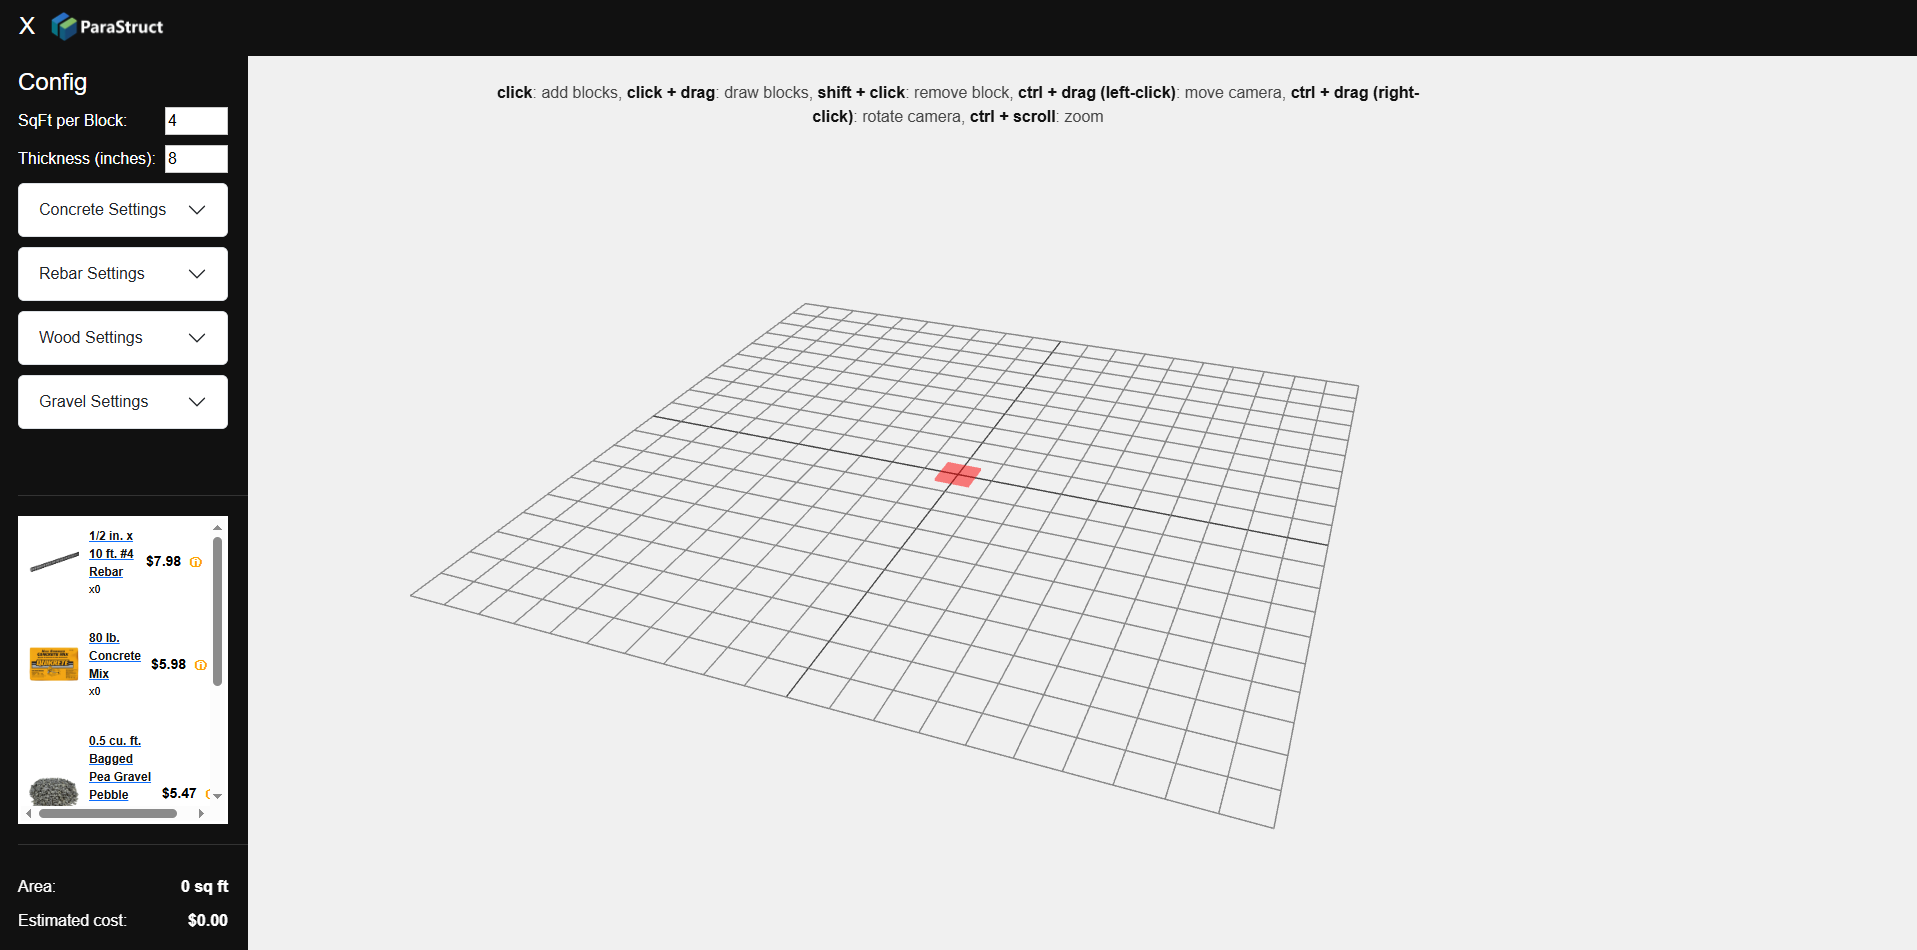
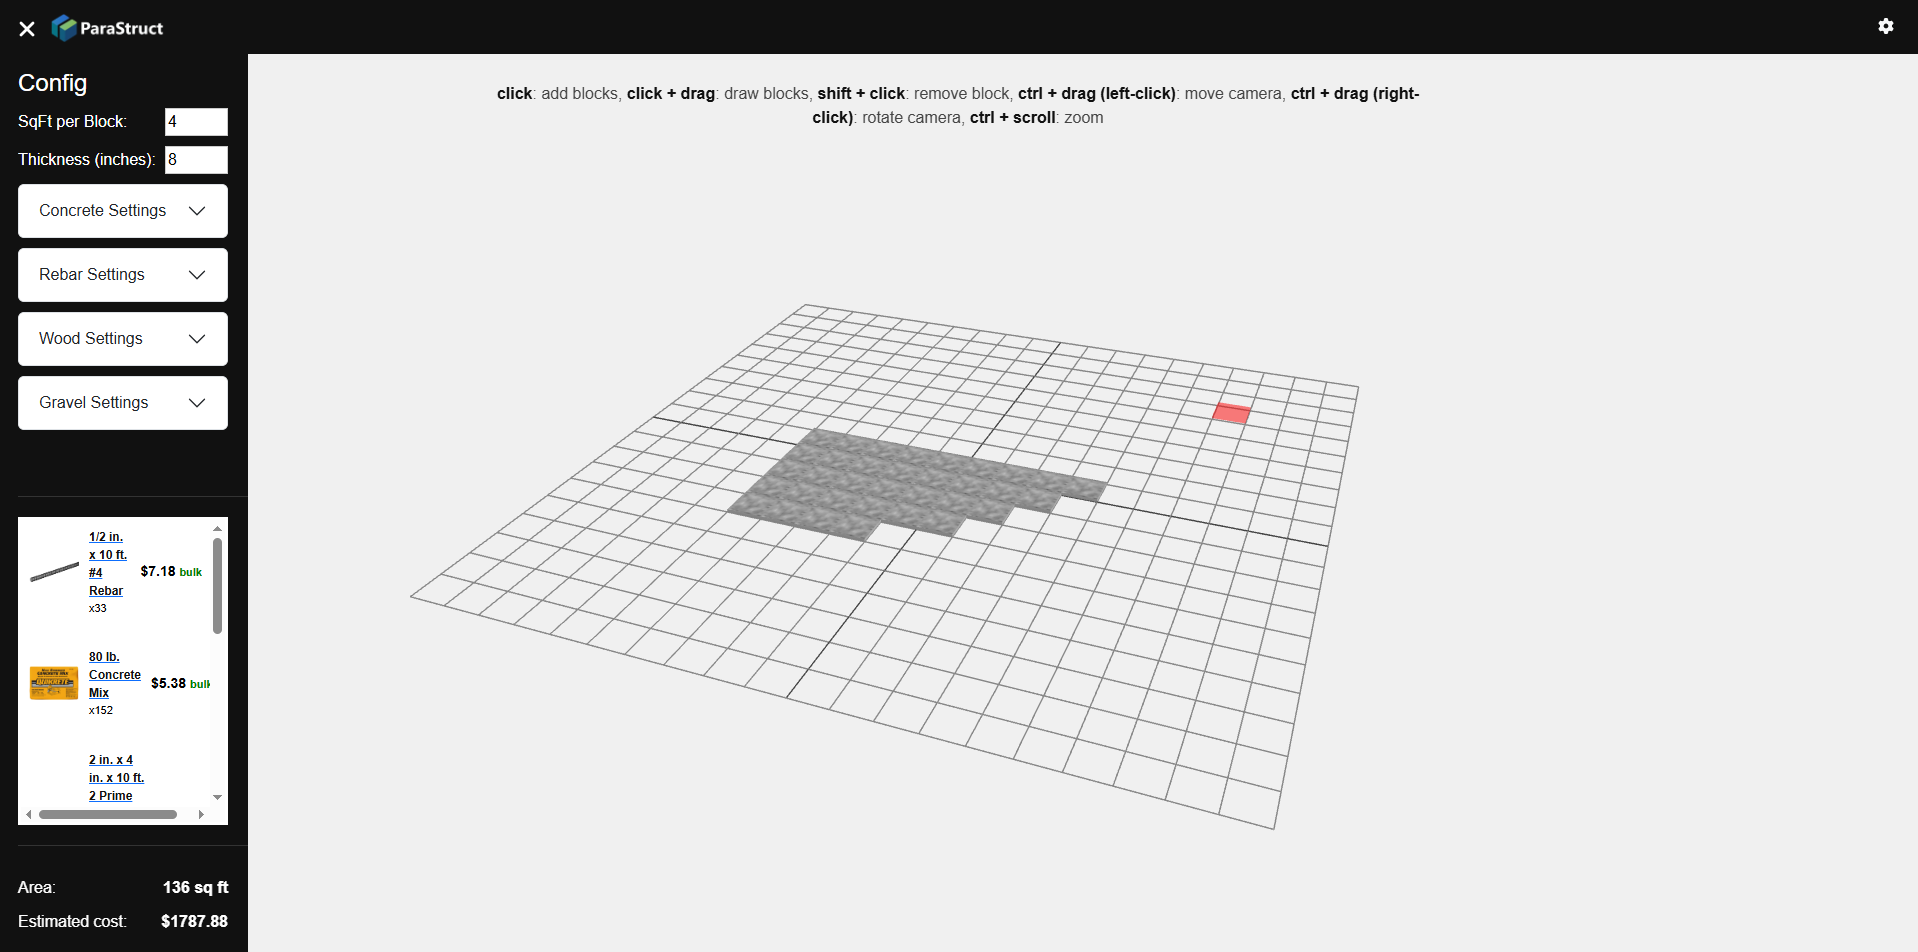
Routing

diff --git a/src/views/SettingsPage.vue b/src/views/SettingsPage.vue
@@ -1,9 +1,20 @@
 <template>
-  <h1>{{ message }}</h1>
+  <header class="navbar navbar-default">
+    <nav class="container-fluid d-flex align-items-center justify-content-between">
+      <div class="navbar-header d-flex align-items-center">
+        <router-link to="/" class="navbar-brand">
+          <img class="logo" src="../assets/ParaStruct_Logo_Text.webp" />
+        </router-link>
+      </div>
+
+      <div class="settings-btn ms-auto">
+        <router-link to="/settings" class="btn btn-outline-light no-border">
+          <font-awesome-icon icon="cog"/>
+        </router-link>
+      </div>
+    </nav>
+  </header>
 </template>
 
 <script setup>
-import { ref } from 'vue'
-
-const message = ref('Hello World!')
 </script>

diff --git a/src/views/HomePage.vue b/src/views/HomePage.vue
@@ -18,15 +18,15 @@
             :class="{ 'icon-hidden': !isOpen }"
           />
         </button>
-        <div class="navbar-brand">
+        <router-link to="/" class="navbar-brand">
           <img class="logo" src="../assets/ParaStruct_Logo_Text.webp" />
-        </div>
+        </router-link>
       </div>
 
       <div class="settings-btn ms-auto">
-        <button type="button" class="btn btn-outline-light">
+        <router-link to="/settings" class="btn btn-outline-light no-border">
           <font-awesome-icon icon="cog"/>
-        </button>
+        </router-link>
       </div>
     </nav>
   </header>

diff --git a/src/router/index.js b/src/router/index.js
@@ -1,0 +1,15 @@
+import { createRouter, createWebHistory } from 'vue-router'
+import HomePage from '../views/HomePage.vue'
+import SettingsPage from '../views/SettingsPage.vue'
+
+const routes = [
+  { path: '/', name: 'Home', component: HomePage },
+  { path: '/settings', name: 'Settings', component: SettingsPage }
+]
+
+const router = createRouter({
+  history: createWebHistory(),
+  routes
+})
+
+export default router

diff --git a/src/main.js b/src/main.js
@@ -1,5 +1,6 @@
 import { createApp } from 'vue'
 import App from './App.vue'
+import router from './router'
 import './assets/styles/home.css'
 import './assets/styles/main.css'
 import 'bootstrap/dist/css/bootstrap.min.css'
@@ -12,4 +13,5 @@ library.add(faBars, faTimes, faCog)
 
 const app = createApp(App)
 app.component('font-awesome-icon', FontAwesomeIcon)
+app.use(router)
 app.mount('#app')

diff --git a/src/assets/styles/home.css b/src/assets/styles/home.css
@@ -18,6 +18,11 @@
   padding-bottom: 3px;
 }
 
+.no-border {
+  border: none !important;
+  box-shadow: none !important;
+}
+
 .logo {
   width: 125px;
   height: auto;

diff --git a/src/App.vue b/src/App.vue
@@ -1,10 +1,6 @@
 <template>
-  <HomePage/>
+  <router-view />
 </template>
-
-<script setup>
-import HomePage from './views/HomePage.vue'
-</script>
 
 <style>
 #app {
